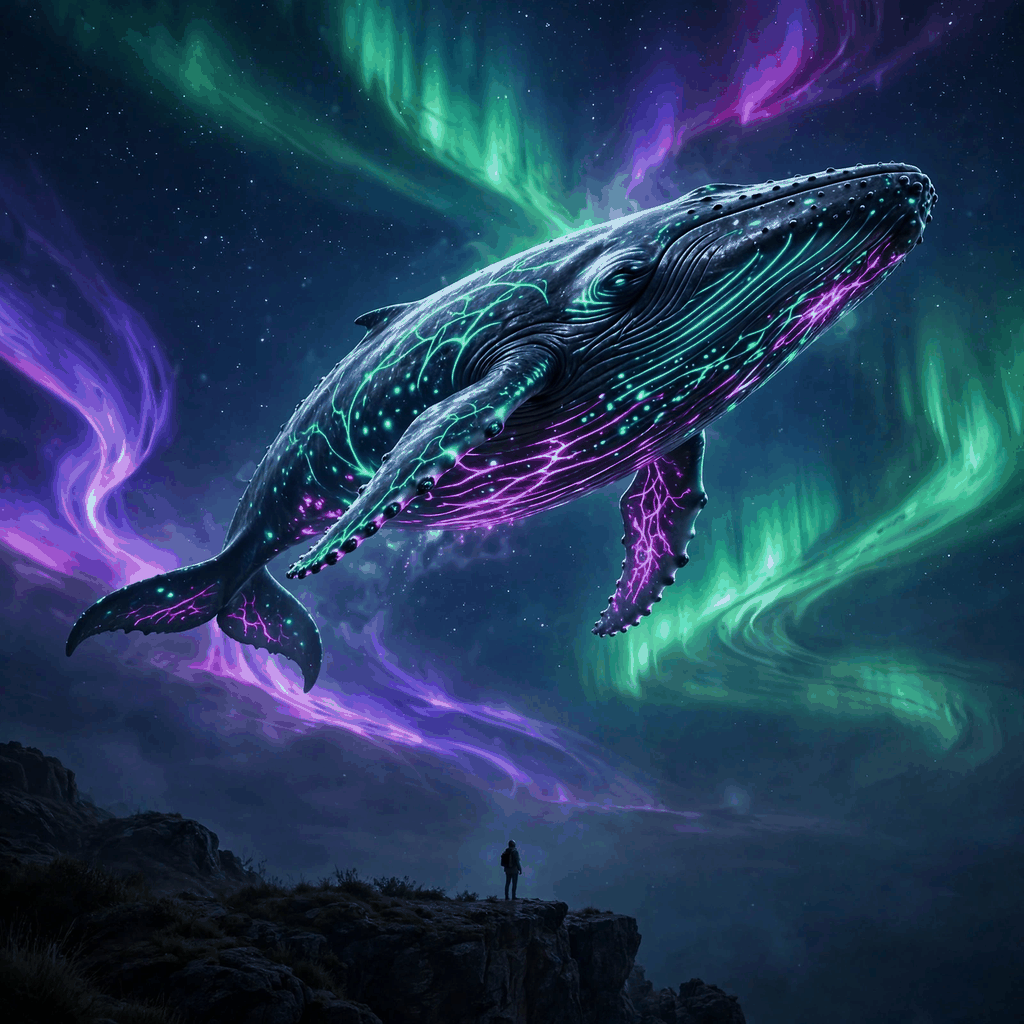
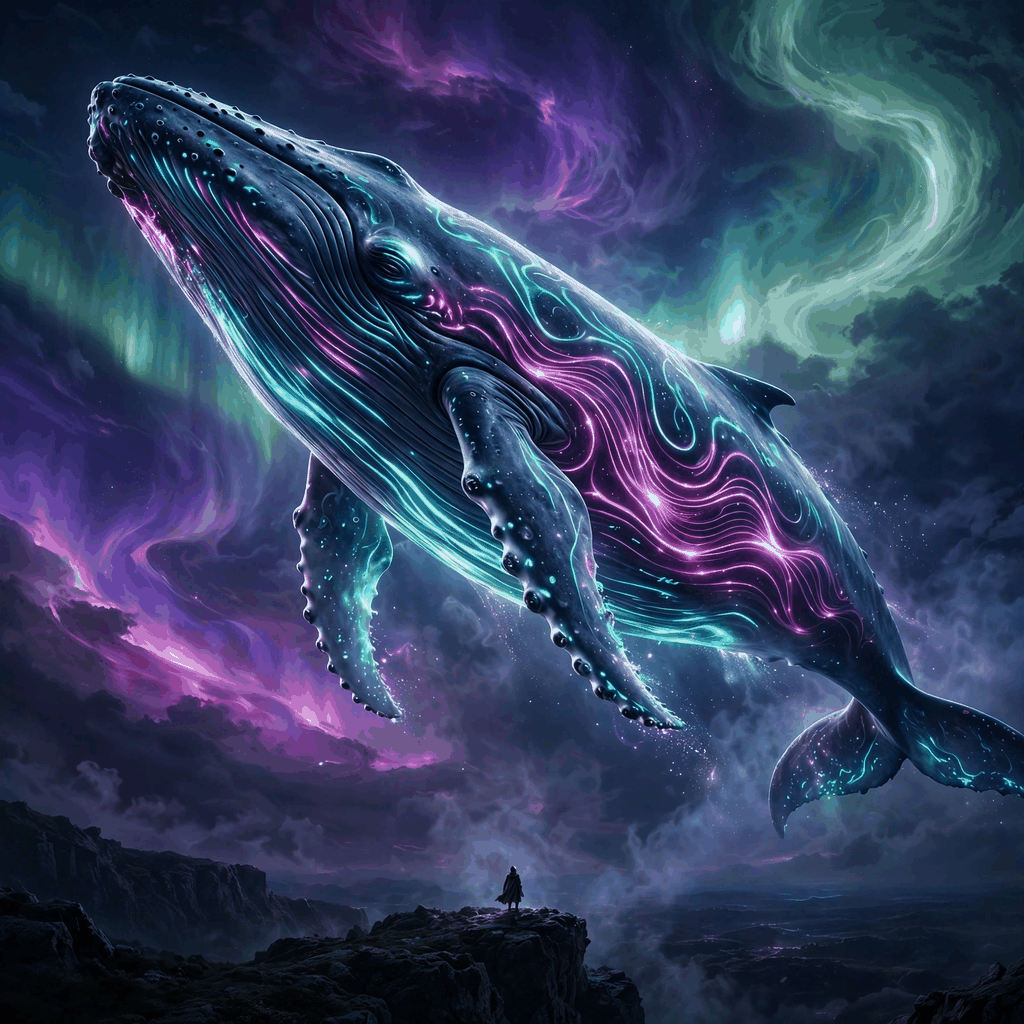
Rebuild entry for make.fun ai-excited-01 round 3

diff --git a/main.py b/main.py
@@ -19,7 +19,8 @@ def main() -> int:
     with open(src, "rb") as f:
         header = f.read(len(PNG_MAGIC))
     if header != PNG_MAGIC:
-        print("error: bundled entry.png is not a PNG image", file=sys.stderr)
+        print(f"error: bundled entry.png is not a PNG image "
+              f"(first bytes: {header!r})", file=sys.stderr)
         return 1
     size = os.path.getsize(src)
     if size > MAX_BYTES:
@@ -32,6 +33,8 @@ def main() -> int:
     # byte-for-byte identical on every run, so the program is deterministic.
     dst = os.path.join(out_dir, "entry.png")
     shutil.copyfile(src, dst)
+    # Verify the copy byte-for-byte: the competition requires two runs
+    # to produce identical output, and only an exact copy guarantees it.
     with open(src, "rb") as f:
         source_bytes = f.read()
     with open(dst, "rb") as f:

diff --git a/README.md b/README.md
@@ -4,7 +4,7 @@
 [![rank](https://make.fun/badge/ai-excited-01/dezet96/makefun-ai-excited/rank.svg)](https://make.fun/bounty/ai-excited-01/leaderboard?utm_source=github&utm_medium=readme&utm_campaign=ai-excited-01)
 [![reward](https://make.fun/badge/ai-excited-01/dezet96/makefun-ai-excited/reward.svg)](https://make.fun/bounty/ai-excited-01?utm_source=github&utm_medium=readme&utm_campaign=ai-excited-01)
 
-A colossal bioluminescent whale soaring through a night sky lit by green and violet auroras, glowing cyan and magenta patterns rippling across its body, while a tiny human watches in awe from a dark cliff far below. Wonder, scale, and light — the moment the impossible feels real.
+A colossal bioluminescent whale rises diagonally through a night sky of swirling green and violet aurora ribbons, glowing cyan and magenta lines rippling across its dark body like neon veins, while a lone cloaked figure watches in awe from a rocky cliff far below. Wonder, scale, and light — the moment the impossible feels real.
 
 ## How it works
 
